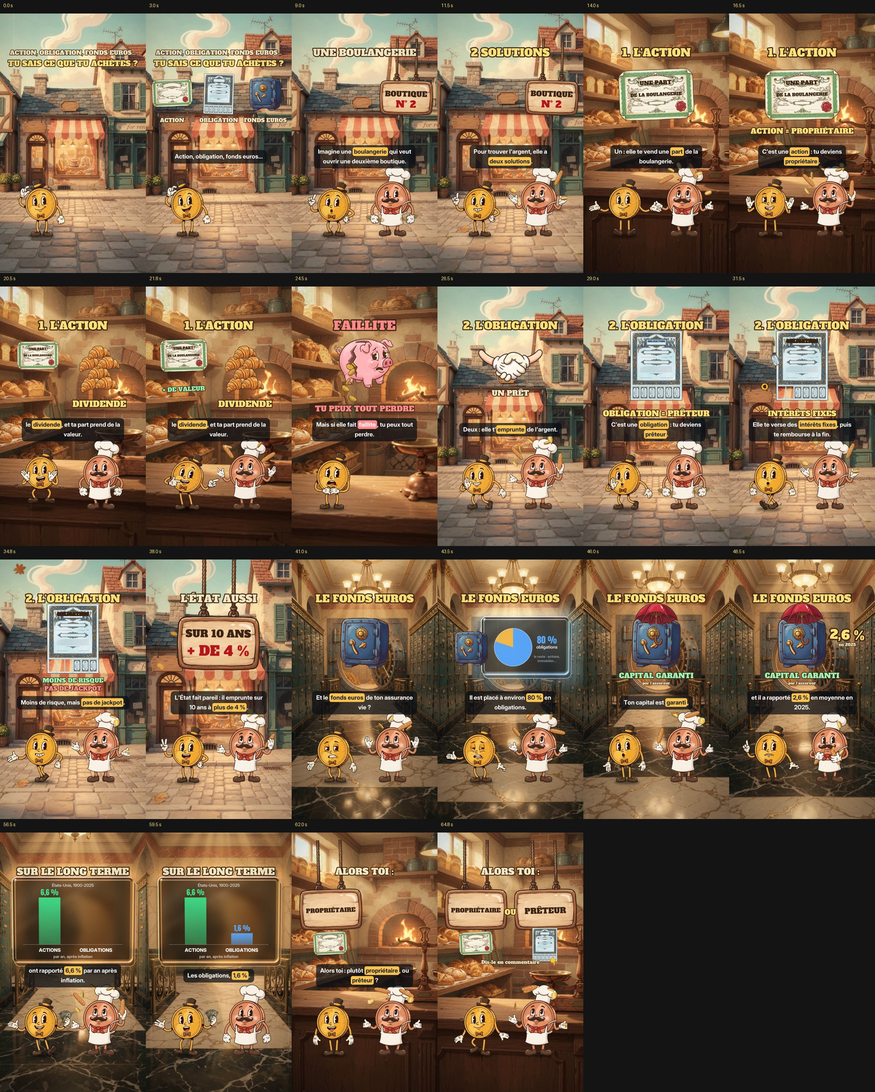
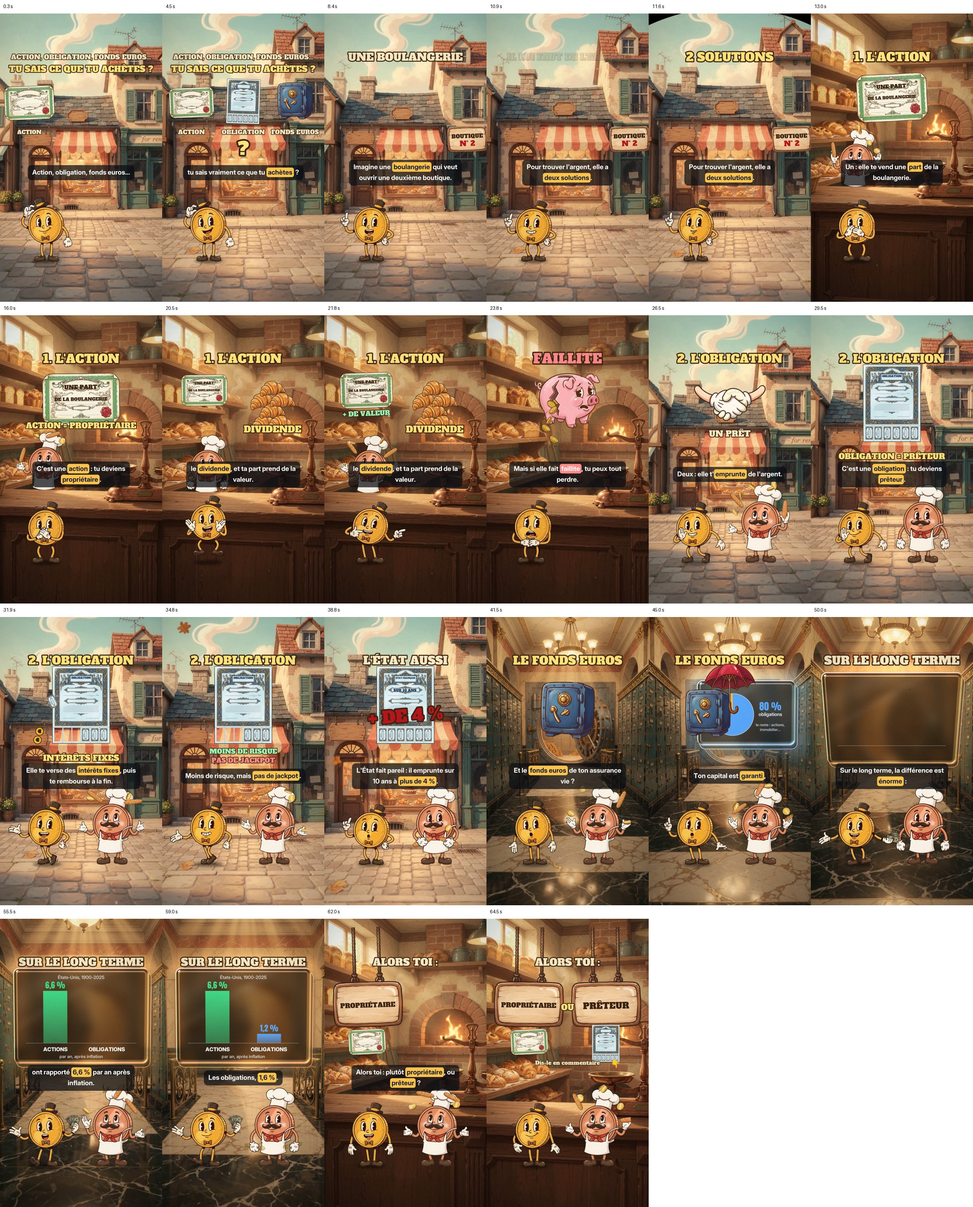
Actions/obligations : boulanger au fond du fournil puis à côté de Mister Coin, pancartes fixées, maquettes
Claude-Session: https://claude.ai/code/session_01VFT2ZKYV9NwmFvCsfcTKi7

diff --git a/episodes/2026-11-11_actions_obligations/video_col.py b/episodes/2026-11-11_actions_obligations/video_col.py
@@ -58,9 +58,10 @@ _NF = {}
 def nframes(name):
     if name not in _NF: c = cv2.VideoCapture(DECC[name]); _NF[name] = int(c.get(cv2.CAP_PROP_FRAME_COUNT)); c.release()
     return _NF[name]
+DSLOW = {('fournil', 12.0): .3}                                       # fournil de l'action : travelling ralenti (le boulanger reste derrière le comptoir)
 def decor_c(name, t):
     a, b = next((a, b) for (a, b, d) in BLOCS if d == name and a <= t < b+.5)
-    n = nframes(name); sp = min(1.0, (n-1)/24/max(.1, b-a)); i = min(n-1, int(max(0, t-a)*sp*24))
+    n = nframes(name); sp = min(1.0, (n-1)/24/max(.1, b-a))*DSLOW.get((name, a), 1.0); i = min(n-1, int(max(0, t-a)*sp*24))
     f = _RD.get(name, i)
     g = cv2.resize(cv2.cvtColor(f, cv2.COLOR_BGR2RGB), (W, H), interpolation=cv2.INTER_CUBIC).astype(np.float32)
     return np.clip((g-128)*1.06+130, 0, 255)
@@ -130,6 +131,18 @@ def ink(c, s_, x, y, size, colr, a=1.0, maxw=None):
     c.select_font_face('Alfa Slab One', 0, 0); c.set_font_size(size); e = c.text_extents(s_)
     if maxw and e.x_advance > maxw: size *= maxw/e.x_advance; c.set_font_size(size); e = c.text_extents(s_)
     c.move_to(x-e.x_advance/2, y+e.height/2-(e.height+e.y_bearing)/2); c.text_path(s_); col(c, colr, a); c.fill()
+BOARD = (30, 975, 1195, 1715)                                           # planche seule de la pancarte (sans les cordes), coordonnées de pancarte.png
+def board(c, x, y, w, k, rot=0.0, lines=()):
+    """planche de la pancarte sans cordes, clouée sur un support du décor ; lignes de texte à l'encre"""
+    if k <= 0: return
+    sf, iw, ih = psurf('pancarte'); x0, y0, x1, y1 = BOARD; s = w/(x1-x0)*back(k/.35)
+    c.save(); c.translate(x, y); c.rotate(rot); c.scale(s, s); c.translate(-(x0+x1)/2, -(y0+y1)/2)
+    c.rectangle(x0, y0, x1-x0, y1-y0); c.clip(); c.set_source_surface(sf, 0, 0); c.paint()
+    n = len(lines); cy = (y0+y1)/2
+    for i, (tx, sz, colr) in enumerate(lines): ink(c, tx, (x0+x1)/2, cy+(i-(n-1)/2)*sz*1.15, sz, colr, maxw=(x1-x0)*.8)
+    for (nx, ny) in ((x0+55, y0+55), (x1-55, y0+55), (x0+55, y1-55), (x1-55, y1-55)):     # clous
+        c.arc(nx, ny, 18, 0, 2*math.pi); col(c, '5A4A3A'); c.fill()
+    c.restore()
 def fade(t, t0, t1=None, d=.3): return ent(t-t0, d)*(1-ent(t-t1, d) if t1 is not None else 1)
 def on_prop(c, name, x, y, w=None, h=None, k=1.0, rot=0.0, a=1.0, texts=()):
     """accessoire + textes écrits dessus, en coordonnées de l'image de l'accessoire : (texte, px, py, taille, couleur)"""
@@ -180,7 +193,7 @@ def b_rue1(cv, c, t, k):
     if t > 4.1: pop_text(c, "?", 540, 900+out*900, 120, t, 4.15, YEL)
 def b_rue2(cv, c, t, k):
     sw = .04*math.sin(t*1.7)
-    on_prop(c, 'pancarte', 850, 470+(1-ent(t-7.9, .5))*-700, w=400, k=1, rot=sw, texts=(("BOUTIQUE", 610, 1250, 165, BROWN), ("N° 2", 610, 1480, 210, RED)))
+    board(c, 952, 836, 262, t-7.9, rot=-.03, lines=(("BOUTIQUE", 165, BROWN), ("N° 2", 210, RED)))
     title(c, "UNE BOULANGERIE", t, 6.7, 290, 70, t1=9.6)
     title(c, "IL LUI FAUT DE L'ARGENT", t, 9.7, 290, 56, t1=10.75)
     if t > 11.0: pop_text(c, "2 SOLUTIONS", 540, 290, 78, t, 11.05, YEL)
@@ -188,20 +201,20 @@ def b_action(cv, c, t, k):
     if t < 22.6:
         title(c, "1. L'ACTION", t, 12.25, 290, 80, YEL)
         mv = inout((t-17.4)/.7) if t > 17.4 else 0                    # le certificat se range à gauche pour laisser place au dividende
-        cx_, cy_, w_ = 540-260*mv, 600-90*mv, 560-250*mv
+        cx_, cy_, w_ = 540-260*mv, 560-60*mv, 520-210*mv
         grow = 1+.14*inout((t-21.0)/.8) if t > 21.0 else 1
         on_prop(c, 'certificat_action', cx_, cy_, w=w_*grow, k=t-12.9, rot=-.03+.02*math.sin(t*1.3),
                 texts=(("UNE PART", 833, 300, 120, BROWN), ("DE LA BOULANGERIE", 833, 560, 96, BROWN)))
-        if t > 14.85: pop_text(c, "ACTION = PROPRIÉTAIRE", 540, 870, 54, t, 14.85, YEL, maxw=900, a=1-ent(t-17.3, .25))
+        if t > 14.85: pop_text(c, "ACTION = PROPRIÉTAIRE", 540, 735, 52, t, 14.85, YEL, maxw=900, a=1-ent(t-17.3, .25))
         if t > 17.4:
             for i in range(6):                                           # les croissants du dividende tombent en pile
                 t0 = 17.9+.32*i; kk = t-t0
                 if kk <= 0: continue
                 tx, ty = 735+(-60, 60, 0, -70, 70, 0)[i], 720-(0, 0, 80, 150, 150, 230)[i]
                 y = ty-560*(1-ent(kk, .45)); prop(c, 'croissant', tx, y, w=170, rot=(-.2, .2, .05, -.15, .15, 0)[i], shadow=False)
-            if t > 20.0: pop_text(c, "DIVIDENDE", 735, 870, 62, t, 20.05, YEL)
+            if t > 20.0: pop_text(c, "DIVIDENDE", 735, 760, 60, t, 20.05, YEL)
             if t > 21.2:
-                pop_text(c, "+ DE VALEUR", 280, 760, 44, t, 21.2, MINT, rot=-.04)
+                pop_text(c, "+ DE VALEUR", 280, 655, 44, t, 21.2, MINT, rot=-.04)
                 for i in range(3):
                     ph = ((t-21.2)*.8+i*.33) % 1; S_ = math.sin(ph*math.pi)
                     if S_ > .1: star(c, 280+(-130, 120, 150)[i], 420+(0, 30, 250)[i], 24*S_)
@@ -226,10 +239,14 @@ def b_oblig(cv, c, t, k):
         if t > 33.6: pop_text(c, "MOINS DE RISQUE", 540-out*1100, 895, 44, t, 33.6, MINT)
         if t > 34.45: pop_text(c, "PAS DE JACKPOT", 540-out*1100, 955, 44, t, 34.45, PINK)
     else:
-        on_prop(c, 'pancarte', 540, 380+(1-ent(t-36.0, .5))*-700, w=620, k=1, rot=.02*math.sin(t*1.5),
-                texts=(("SUR 10 ANS", 610, 1200, 150, BROWN), (f"+ DE 4{NB}%", 610, 1450, 200, RED)))
+        bond(c, 540, 585, 520, t, k=t-36.0, label=False)
+        sf_, iw_, ih_ = psurf('obligation_coupons'); s_ = 520/ih_*back((t-36.0)/.35)
+        if t > 36.0:
+            c.save(); c.translate(540, 585); c.scale(s_, s_); c.translate(-iw_/2, -ih_/2)
+            ink(c, "ÉTAT FRANÇAIS", 715, 292, 100, '1E3A5F', maxw=480); ink(c, "SUR 10 ANS", 705, 595, 90, '1E3A5F', maxw=560); c.restore()
+        if t > 38.4: pop_text(c, f"+ DE 4{NB}%", 540, 660, 110, t, 38.4, RED, rot=-.08)
         title(c, "L'ÉTAT AUSSI", t, 35.9, 290, 74)
-        if t > 38.9: paint(c, f"4,44{NB}% en moyenne en septembre 2026", 540, 960, 28, a=ent(t-38.9, .3))
+        if t > 38.9: paint(c, f"4,44{NB}% en moyenne en septembre 2026", 540, 935, 28, a=ent(t-38.9, .3))
 def b_fonds(cv, c, t, k):
     if t < 49.6:
         title(c, "LE FONDS EUROS", t, 39.85, 290, 76, YEL)
@@ -282,7 +299,9 @@ def b_fin(cv, c, t, k):
     if t > 63.6: paint(c, "Dis-le en commentaire", 540, 960, 36, a=ent(t-63.7, .3))
 # ================= Mister Coin Boulanger =================
 BAK = f'{S.ROOT}/mister_coin/veo/boulanger_jongle.mp4'; BAK_X, BAK_FEET, BAK_S = 745, 1650, .60; BAK_FOOT_Y = 1035
-BAK_ON = [(6.6, 22.55), (25.45, None)]
+BAK_ON = [('fond', 12.3, 22.5), ('cote', 25.45, None)]                  # au fond derrière le comptoir du fournil, puis à côté de Mister Coin
+FOND_X, FOND_S = 300, .52
+CPT_T, CPT_Y = (12.0, 15.0, 18.0, 21.0, 25.3), (1151, 1160, 1169, 1180, 1196)   # bord arrière du comptoir (mesuré sur le décor ralenti)             # comptoir : bord arrière du plateau (le boulanger est coupé en dessous)
 class _Bak:
     def __init__(s): s.cap = None; s.i = -1; s.f = None
     def get(s, n):
@@ -297,20 +316,31 @@ class _Bak:
         rgba = np.dstack([np.clip(a, 0, 255), m*255]).astype(np.uint8)
         im = Image.fromarray(rgba, 'RGBA'); return im.resize((int(im.width*BAK_S), int(im.height*BAK_S)), Image.LANCZOS)
 _BK = _Bak()
-def baker_offset(t):
-    """le boulanger entre par la droite en glissant, repart de même (dx > 0 = hors champ à droite)"""
-    for a, b in BAK_ON:
-        if t < a-.6: return None
-        if a-.6 <= t and (b is None or t < b+.6):
-            dx = 700*(1-ease((t-a+.6)/.6)) if t < a else 0
-            if b is not None and t > b: dx = 700*ease((t-b)/.6)
-            return dx if dx < 699 else None
+def baker_state(t):
+    """(mode, décalage) : au fond, il monte de derrière le comptoir puis redescend ; à côté, il entre et sort par la droite"""
+    for mode, a, b in BAK_ON:
+        if t < a-.6 or (b is not None and t > b+.6): continue
+        if mode == 'fond':
+            if t < a: return 'fond', 450*(1-ease((t-a+.6)/.6))
+            if t > b: return 'fond', 450*ease((t-b)/.6)
+            return 'fond', 0
+        dx = 700*(1-ease((t-a+.6)/.6)) if t < a else 0
+        if b is not None and t > b: dx = 700*ease((t-b)/.6)
+        return ('cote', dx) if dx < 699 else None
     return None
 def baker(out, t):
-    dx = baker_offset(t)
-    if dx is None: return
-    im = _BK.get(int(t*24)); x = int(BAK_X+dx-im.width/2); y = int(BAK_FEET-BAK_FOOT_Y*BAK_S)
-    out.alpha_composite(im, (max(x, 0), y), (max(0, -x), 0)) if x < W else None
+    st = baker_state(t)
+    if st is None: return
+    mode, off = st; im = _BK.get(int(t*24))
+    if mode == 'fond':
+        im = im.resize((int(im.width*FOND_S/BAK_S), int(im.height*FOND_S/BAK_S)), Image.LANCZOS)
+        cpt = float(np.interp(t, CPT_T, CPT_Y)); x = int(FOND_X-im.width/2); y = int(cpt+70+off-BAK_FOOT_Y*FOND_S)
+        h = int(cpt)-y
+        if h <= 0: return
+        im = im.crop((0, 0, im.width, min(im.height, h)))
+    else:
+        x = int(BAK_X+off-im.width/2); y = int(BAK_FEET-BAK_FOOT_Y*BAK_S)
+    if x < W: out.alpha_composite(im, (max(x, 0), y), (max(0, -x), 0))
 
 SC = [(0.0, 6.5, b_rue1, 'rue'), (6.5, 12.0, b_rue2, 'rue'), (12.0, 25.3, b_action, 'fournil'), (25.3, 39.6, b_oblig, 'rue'),
       (39.6, 60.45, b_fonds, 'coffres'), (60.45, DUR, b_fin, 'fournil')]
@@ -320,8 +350,10 @@ def frame(t):
     i = max(j for j, s_ in enumerate(SC) if t >= s_[0] or j == 0); a, b, f, dec = SC[i]
     img = decor_c(dec, t)
     cv = Image.fromarray(np.clip(img, 0, 255).astype(np.uint8)).convert('RGBA')
+    st = baker_state(t)
+    if st and st[0] == 'fond': baker(cv, t)                             # au fond : derrière les accessoires de la scène
     s, c = surface(); f(cv, c, t, max(0.0, t-a)); cv.alpha_composite(to_img(s))
-    baker(cv, t)
+    if st and st[0] == 'cote': baker(cv, t)
     arr = np.asarray(cv.convert('RGB')).astype(np.float32)
     arr = coin_col(arr, t)
     fl = film(arr.copy(), t); arr = arr*.72+fl*.28
